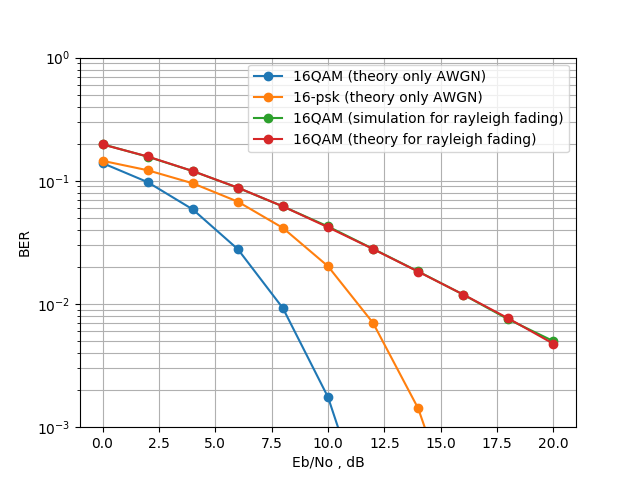
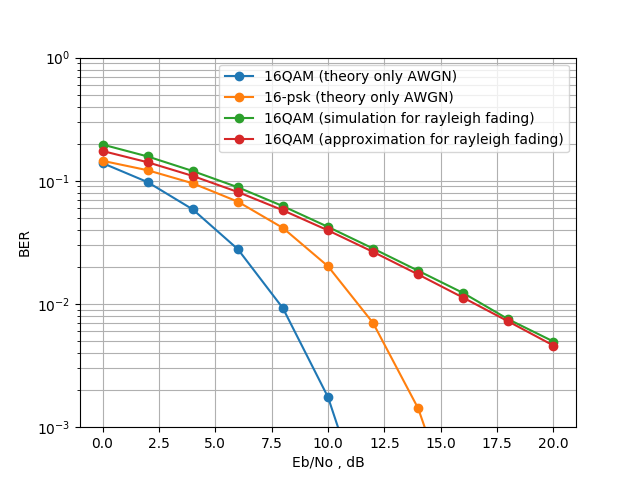
將ofdm之前遇到的問題解決，並新增16QAM模擬 ofdm已新增: 	16QAM的rayleigh fading模擬 ofdm已解決: 	rayleigh fading channel中QPSK的錯誤率問題已解決 SISO已修正: 	16QAM的理論值應改為近似值，並且把模擬結果圖進行些許修正

diff --git a/ofdm/basic structure/ofdm modulation(rayleigh multipath channel) .py b/ofdm/basic structure/ofdm modulation(rayleigh multipath channel) .py
@@ -4,10 +4,10 @@ import math
 
 #reference : http://www.dsplog.com/2008/08/26/ofdm-rayleigh-channel-ber-bpsk/
 
-snr_db = [0]*13
+snr_db = [0]*15
 snr = [0]*len(snr_db)
 ber = [0]*len(snr_db)
-N = 100000              #執行N次來找錯誤率
+N = 10000              #執行N次來找錯誤率
 Nfft = 64               #總共有多少個sub channel
 X = [0]*64              #從頻域送出64
 Nusc = 52               #總共有多少sub channel 真正的被用來傳送symbol，假設是sub-channel : 0,1,2,29,30,31及32,33,34,61,62,63不用來傳送symbol
@@ -16,8 +16,12 @@ n_guard = 16            #經過取樣後有n_guard個點屬於guard interval，N
 L = 10                  #假設有L條path
 h = [0]*L               #每個元素代表L條path各自的impulse response  (因為在一個OFDM symbol period內為常數，所以很明顯是非時變通道)
 
-constellation = [1+1j, 1-1j, -1+1j, -1-1j] # 決定QPSK星座點
-#constellation = [-1,1]
+#constellation = [1+1j, 1-1j, -1+1j, -1-1j] # 決定QPSK星座點
+#constellation_name = 'QPSK'
+constellation =  [1+1j,1+3j,3+1j,3+3j,-1+1j,-1+3j,-3+1j,-3+3j,-1-1j,-1-3j,-3-1j,-3-3j,1-1j,1-3j,3-1j,3-3j] # 決定16-QAM的16個星座點
+constellation_name = '16-QAM'
+#constellation = [-1,1] # 決定BPSK星座點
+#constellation_name = 'BPSK'
 
 K = int(np.log2(len(constellation)))  # 代表一個symbol含有K個bit
 # 接下來要算平均一個symbol有多少能量
@@ -43,11 +47,14 @@ for i in range(len(snr_db)):
 for k in range(2):
     for i in range(len(snr)):
         error = 0
-        if k==0 : # SISO - rayleigh (BPSK) (theory)
+        if k==0 and (constellation_name == 'BPSK' or constellation_name == 'QPSK'): # SISO - rayleigh (BPSK) (theory)
             ber[i] = 1/2*(1-np.sqrt(snr[i]/(snr[i]+1)))
             continue
-        elif k==2: # SISO - only awgn (BPSK) (theory)
-            ber[i] = 1/2*math.erfc(np.sqrt(snr[i]))
+        elif k==0 and constellation_name == '16-QAM': # SISO - rayleigh (16-QAM) (theory)
+            a = 2 * (1 - 1 / K) / np.log2(K)
+            b = 6 * np.log2(K) / (K * K - 1)
+            rn = b * snr[i] / 2
+            ber[i] = 1 / 2 * a * (1 - np.sqrt(rn / (rn + 1)))
             continue
         for j in range(N):
             if k==1 :
@@ -144,24 +151,40 @@ for k in range(2):
                             if abs(constellation[n] - Y[m]/H[m]) < min_distance:
                                 detection = constellation[n]
                                 min_distance = abs(constellation[n] - Y[m]/H[m])
-                        if detection != X[m]: #QPSK的symbol發生錯誤時
-                            # 要確實的找出QPSK錯幾個bit，而不是找出錯幾個symbol，來估計BER
-                            if abs(detection.real - X[m].real) == 2:
+
+                        if detection != X[m]:  # 如果這個sub channel發生symbol error
+                            # 不同的symbol調變，就要用不同的方法從symbol error中找bit error
+                            if constellation_name == 'QPSK':#QPSK的symbol發生錯誤時
+                                # 要確實的找出QPSK錯幾個bit，而不是找出錯幾個symbol，來估計BER
+                                if abs(detection.real - X[m].real) == 2:
+                                    error += 1
+                                if abs(detection.imag - X[m].imag) == 2:
+                                    error += 1
+                            elif constellation_name == '16-QAM':#16-QAM的symbol發生錯誤時
+                                # 要確實的找出16-QAM錯幾個bit，而不是找出錯幾個symbol，來估計BER
+                                if abs(detection.real - X[m].real) == 2 or abs(detection.real - X[m].real) == 6:
+                                    error += 1
+                                elif abs(detection.real - X[m].real) == 4:
+                                    error += 2
+                                if abs(detection.imag - X[m].imag) == 2 or abs(detection.imag - X[m].imag) == 6:
+                                    error += 1
+                                elif abs(detection.imag - X[m].imag) == 4:
+                                    error += 2
+                            elif constellation_name == 'BPSK':
                                 error += 1
-                            elif abs(detection.imag - X[m].imag) == 2:
-                                error += 1
-                            #error += 1
                     else:
                         continue
 
         ber[i] = error / (Nusc * N * K)  # 分母乘上K是因為一個symbol含有K個bit
 
-    if k==0 :
-        plt.semilogy(snr_db,ber,marker='o',label='rayleigh-theory for BPSK')
+    if k==0 and (constellation_name == 'BPSK' or constellation_name == 'QPSK'):
+        plt.semilogy(snr_db,ber,marker='o',label='rayleigh-theory for BPSK or QPSK (SISO)')
+    elif k==0 and constellation_name == '16-QAM':
+        plt.semilogy(snr_db,ber,marker='o',label='rayleigh-approximation for 16-QAM (SISO)')
     elif k==1:
-        plt.semilogy(snr_db,ber,marker='o',label='rayleigh-simulation for QPSK (multipath = {0})'.format(L))
-    elif k==2:
-        plt.semilogy(snr_db,ber,marker='o',label='only AWGN-theory for BPSK')
+        plt.semilogy(snr_db,ber,marker='o',label='rayleigh-simulation for {0} (multipath = {1})'.format(constellation_name,L))
+
+
 
 plt.xlabel('Eb/No , dB')
 plt.ylabel('BER')

diff --git a/SISO/16QAM (rayleigh).py b/SISO/16QAM (rayleigh).py
@@ -46,6 +46,7 @@ for k in range(4):
             b = 6 * np.log2(K) / (K * K - 1)
             rn = b * snr[i] / 2
             ber[i] = 1 / 2 * a * (1 - np.sqrt(rn / (rn + 1)))
+            continue
 
         error = 0
 
@@ -105,7 +106,7 @@ for k in range(4):
     if k == 2:
         plt.semilogy(snr_db, ber, marker='o', label='16QAM (simulation for rayleigh fading)')
     if k == 3:
-        plt.semilogy(snr_db, ber, marker='o', label='16QAM (theory for rayleigh fading)')
+        plt.semilogy(snr_db, ber, marker='o', label='16QAM (approximation for rayleigh fading)')
 
 plt.xlabel('Eb/No , dB')
 plt.ylabel('BER')

diff --git a/ofdm/basic structure/ofdm modulation(only AWGN).py b/ofdm/basic structure/ofdm modulation(only AWGN).py
@@ -134,7 +134,7 @@ for k in range(3):
                             # 要確實的找出QPSK錯幾個bit，而不是找出錯幾個symbol，來估計BER
                             if abs(detection.real - X[m].real) == 2:
                                 error += 1
-                            elif abs(detection.imag - X[m].imag) == 2:
+                            if abs(detection.imag - X[m].imag) == 2:
                                 error += 1
 
                     else:
